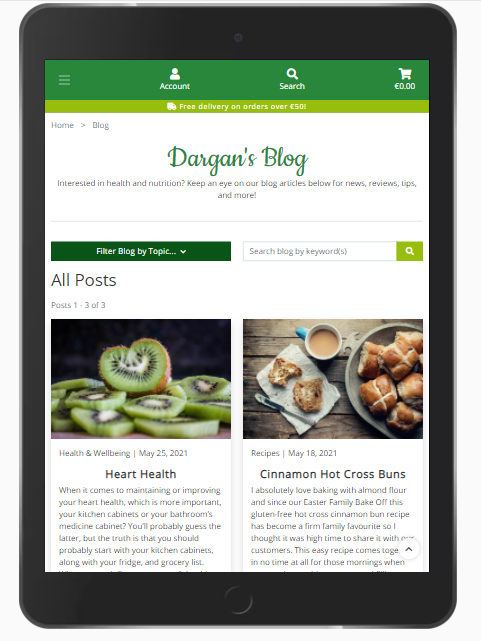
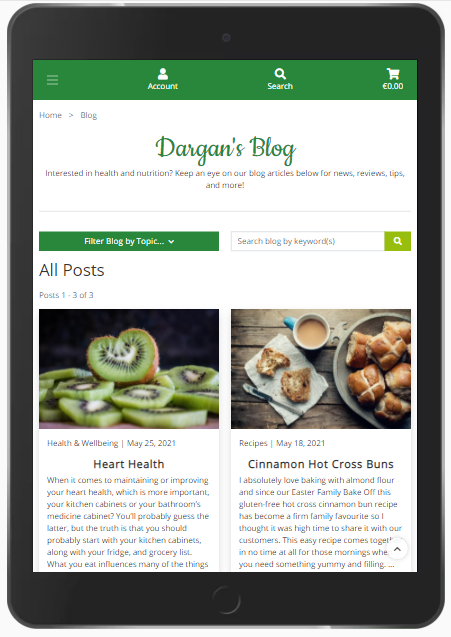
docs: Continue Existing Site Member write-up with screenshots.

diff --git a/home/templates/home/index.html b/home/templates/home/index.html
@@ -4,6 +4,10 @@
 
 {% block extra_title %}Home{% endblock %}
 
+{% block extra_header %}
+    {% include 'includes/delivery_banner.html' %}
+{% endblock %}
+
 {% block page_header %}
 <div class="container header-container">
     <div class="row">
@@ -46,16 +50,16 @@
                         <!-- Bootstrap Card copied from https://getbootstrap.com/docs/5.0/components/card/ and then modified -->
                         <div class="card text-center">
                             {% if product.main_image %}
-                                <a href="{% url 'product_detail' product.id %}" class="product-link">
-                                    <img src="{{ MEDIA_URL }}{{ product.main_image }}" class="card-img-top"
-                                        alt="{{ product.abbreviated_friendly_name }}">
-                                </a>
-                                {% else %}
-                                <a href="{% url 'product_detail' product.id %}" class="product-link">
-                                    <img src="{{ MEDIA_URL }}product_images/no-image-placeholder.svg" class="card-img-top"
-                                        alt="{{ product.abbreviated_friendly_name }}">
-                                </a>
-                                {% endif %}
+                            <a href="{% url 'product_detail' product.id %}" class="product-link">
+                                <img src="{{ MEDIA_URL }}{{ product.main_image }}" class="card-img-top"
+                                    alt="{{ product.abbreviated_friendly_name }}">
+                            </a>
+                            {% else %}
+                            <a href="{% url 'product_detail' product.id %}" class="product-link">
+                                <img src="{{ MEDIA_URL }}product_images/no-image-placeholder.svg" class="card-img-top"
+                                    alt="{{ product.abbreviated_friendly_name }}">
+                            </a>
+                            {% endif %}
                             <div class="card-body">
                                 <p class="card-text brand-name">{{ product.brand }}</p>
                                 <a href="{% url 'product_detail' product.id %}" class="product-link">
@@ -71,9 +75,12 @@
                                             {% csrf_token %}
                                             <div class="col">
                                                 <div class="input-group">
-                                                    <input class="form-control qty-input rounded-0" type="hidden" name="quantity" value="1">
+                                                    <input class="form-control qty-input rounded-0" type="hidden"
+                                                        name="quantity" value="1">
                                                 </div>
-                                                <input type="submit" class="common-button btn-orange quick-add-to-cart-btn" value="Add to Cart">
+                                                <input type="submit"
+                                                    class="common-button btn-orange quick-add-to-cart-btn"
+                                                    value="Add to Cart">
                                             </div>
                                             <!-- Submit the current url with the form so that we can redirect the user back to the same page once the item has been added to the Cart -->
                                             <input type="hidden" name="redirect_url" value="{{ request.path }}">
@@ -87,7 +94,8 @@
                 </div>
                 <div class="row">
                     <div class="col-12 text-center">
-                        <a class="page-link-with-arrow" href="{% url 'products' %}?sort=-date_added&limit=30" title="View All New In link">
+                        <a class="page-link-with-arrow" href="{% url 'products' %}?sort=-date_added&limit=30"
+                            title="View All New In link">
                             <span class="link">View All New Products</span>
                         </a>
                     </div>
@@ -165,7 +173,8 @@
                 <p>
                     Promo Code: <strong>NEW10</strong>
                 </p>
-                <a href="{% url 'account_signup' %}" class="common-button btn-orange" aria-label="Registration link">Sign Up to Claim Your Discount</a>
+                <a href="{% url 'account_signup' %}" class="common-button btn-orange"
+                    aria-label="Registration link">Sign Up to Claim Your Discount</a>
             </div>
         </div>
     </div>

diff --git a/profiles/templates/profiles/profile.html b/profiles/templates/profiles/profile.html
@@ -7,6 +7,10 @@
 
 {% block extra_title %}My Account{% endblock %}
 
+{% block extra_header %}
+    {% include 'includes/delivery_banner.html' %}
+{% endblock %}
+
 {% block page_header %}
 <div class="container header-container">
     <div class="row">
@@ -82,14 +86,24 @@
                         <tbody>
                             <tr>
                                 <th scope="col">Username</th>
-                                <td>{{ user.username }}</td>
+                                <td class="d-none d-md-block">{{ user.username }}</td>
+                            </tr>
+                            <tr class="d-block d-md-none">
+                                <td colspan="2">
+                                    {{ user.username }}
+                                </td>
                             </tr>
                             <tr>
                                 <th scope="col">Email address</th>
-                                <td>{{ user.email }}</td>
+                                <td class="d-none d-md-block">{{ user.email }}</td>
+                            </tr>
+                            <tr class="d-block d-md-none">
+                                <td colspan="2">
+                                    {{ user.email }}
+                                </td>
                             </tr>
                             <tr>
-                                <td colspan="2" class="text-end">
+                                <td colspan="2" class="text-end pt-3">
                                     <a class="common-button btn-apple-green" href="{% url 'account_change_password' %}">
                                         <i class="fas fa-unlock-alt"></i>&nbsp;Change Password
                                     </a>

diff --git a/products/templates/products/edit_review.html b/products/templates/products/edit_review.html
@@ -1,6 +1,10 @@
 {% extends "base.html" %}
 {% load static %}
 
+{% block extra_header %}
+    {% include 'includes/delivery_banner.html' %}
+{% endblock %}
+
 {% block page_header %}
 <div class="container header-container">
     <div class="row">
@@ -17,7 +21,7 @@
         <div class="col-12 col-lg-9 mx-auto">
             <h3 class="page-title text-muted" id="page-title-heading" aria-labelledby="page-title-heading">
                 You are editing your review of: </h3>
-            <h4 class="my-1 text-green text-center">{{ product.brand.friendly_name }}'s <strong>{{ product.friendly_name }}</strong></h4>
+            <h4 class="my-3 text-green text-center">{{ product.brand.friendly_name }}'s <strong>{{ product.friendly_name }}</strong></h4>
         </div>
     </div>
     <!-- Edit Product Review Form Row -->

diff --git a/products/templates/products/add_review.html b/products/templates/products/add_review.html
@@ -1,6 +1,10 @@
 {% extends "base.html" %}
 {% load static %}
 
+{% block extra_header %}
+    {% include 'includes/delivery_banner.html' %}
+{% endblock %}
+
 {% block page_header %}
 <div class="container header-container">
     <div class="row">
@@ -17,7 +21,7 @@
         <div class="col-12 col-lg-9 mx-auto">
             <h3 class="page-title text-muted" id="page-title-heading" aria-labelledby="page-title-heading">
                 You are reviewing: 
-                <p class="my-1 text-green text-center">{{ product.brand.friendly_name }}'s <strong>{{ product.friendly_name }}</strong></p>
+                <p class="my-3 text-green text-center">{{ product.brand.friendly_name }}'s <strong>{{ product.friendly_name }}</strong></p>
             </h3>
         </div>
     </div>

diff --git a/blog/templates/blog/edit_comment.html b/blog/templates/blog/edit_comment.html
@@ -1,8 +1,10 @@
 {% extends "base.html" %}
 {% load static %}
 
+{% block extra_title %}Dargan's Blog{% endblock %}
+
 {% block page_header %}
-<div class="container header-container">
+<div class="container blog-header-container">
     <div class="row">
         <div class="col"></div>
     </div>
@@ -17,7 +19,7 @@
         <div class="col-12 col-lg-9 mx-auto">
             <h3 class="page-title text-muted" id="page-title-heading" aria-labelledby="page-title-heading">
                 You are commenting on blog post:</h3> 
-            <h4 class="my-1 text-green text-center">{{ blogpost.title }}</h4>
+            <h4 class="my-2 text-green text-center">{{ blogpost.title }}</h4>
         </div>
     </div>
     <!-- Edit BlogPostCommentForm Row -->

diff --git a/blog/templates/blog/add_comment.html b/blog/templates/blog/add_comment.html
@@ -1,8 +1,10 @@
 {% extends "base.html" %}
 {% load static %}
 
+{% block extra_title %}Dargan's Blog{% endblock %}
+
 {% block page_header %}
-<div class="container header-container">
+<div class="container blog-header-container">
     <div class="row">
         <div class="col"></div>
     </div>
@@ -17,7 +19,7 @@
         <div class="col-12 col-lg-9 mx-auto">
             <h3 class="page-title text-muted" id="page-title-heading" aria-labelledby="page-title-heading">
                 You are commenting on blog post: 
-                <p class="my-1 text-green text-center">{{ blogpost.title }}</p>
+                <p class="my-2 text-green text-center">{{ blogpost.title }}</p>
             </h3>
         </div>
     </div>

diff --git a/static/css/base.css b/static/css/base.css
@@ -552,6 +552,10 @@ a.disabled {
     padding-top: 110px;
 }
 
+.blog-header-container {
+    padding-top: 90px;
+}
+
 .banner-image-container a img:hover {
     opacity: 0.8;
 }
@@ -1441,6 +1445,10 @@ input[name="q"]::placeholder,
     #minicart span.hide-for-small-laptop {
         display: none;
     }
+
+    .blog-header-container {
+        padding-top: 170px !important;
+    }
 }
 
 /* Desktop */
@@ -1489,6 +1497,10 @@ input[name="q"]::placeholder,
 
     .header-container {
         padding-top: 14rem;
+    }
+
+    .blog-header-container {
+        padding-top: 190px;
     }
 
     .banner-image-container {

diff --git a/templates/base.html b/templates/base.html
@@ -389,15 +389,8 @@
                 </div>
             </nav>
         </div>
-        <!-- Delivery Banner -->
-        <div id="delivery-banner" class="row text-center">
-            <div class="col bg-apple-green text-white">
-                <h4 class="my-1">
-                    <i class="fas fa-truck"></i>
-                    Free delivery on orders over €{{ free_delivery_threshold }}!
-                </h4>
-            </div>
-        </div>
+        {% block extra_header %}
+        {% endblock %}
     </header>
 
     {% block page_header %}

diff --git a/templates/includes/delivery_banner.html b/templates/includes/delivery_banner.html
@@ -1,0 +1,9 @@
+<!-- Delivery Banner -->
+<div id="delivery-banner" class="row text-center">
+    <div class="col bg-apple-green text-white">
+        <h4 class="my-1">
+            <i class="fas fa-truck"></i>
+            Free delivery on orders over €{{ free_delivery_threshold }}!
+        </h4>
+    </div>
+</div>

diff --git a/blog/templates/blog/add_post.html b/blog/templates/blog/add_post.html
@@ -1,8 +1,10 @@
 {% extends "base.html" %}
 {% load static %}
 
+{% block extra_title %}Dargan's Blog{% endblock %}
+
 {% block page_header %}
-<div class="container header-container">
+<div class="container blog-header-container">
     <div class="row">
         <div class="col"></div>
     </div>

diff --git a/blog/templates/blog/edit_post.html b/blog/templates/blog/edit_post.html
@@ -1,8 +1,10 @@
 {% extends "base.html" %}
 {% load static %}
 
+{% block extra_title %}Dargan's Blog{% endblock %}
+
 {% block page_header %}
-<div class="container header-container">
+<div class="container blog-header-container">
     <div class="row">
         <div class="col"></div>
     </div>

diff --git a/products/templates/products/product_detail.html b/products/templates/products/product_detail.html
@@ -4,6 +4,10 @@
 
 {% block extra_title %}Product Details{% endblock %}
 
+{% block extra_header %}
+    {% include 'includes/delivery_banner.html' %}
+{% endblock %}
+
 {% block page_header %}
 <div class="container header-container">
     <div class="row">
